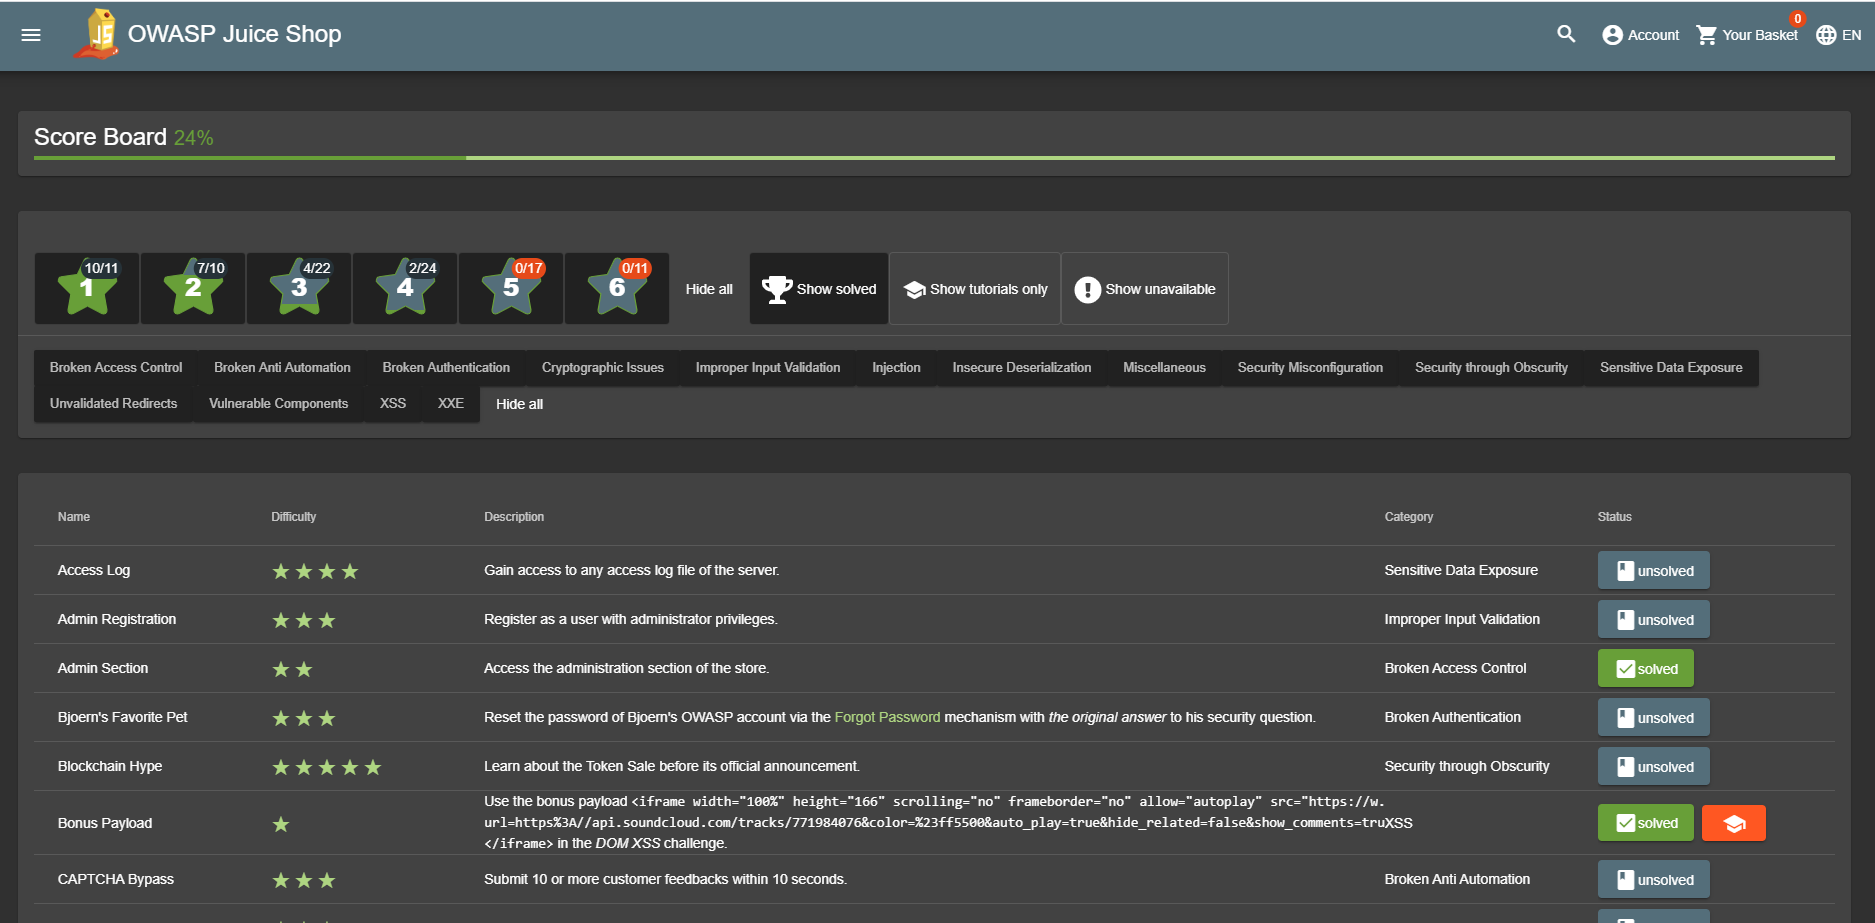
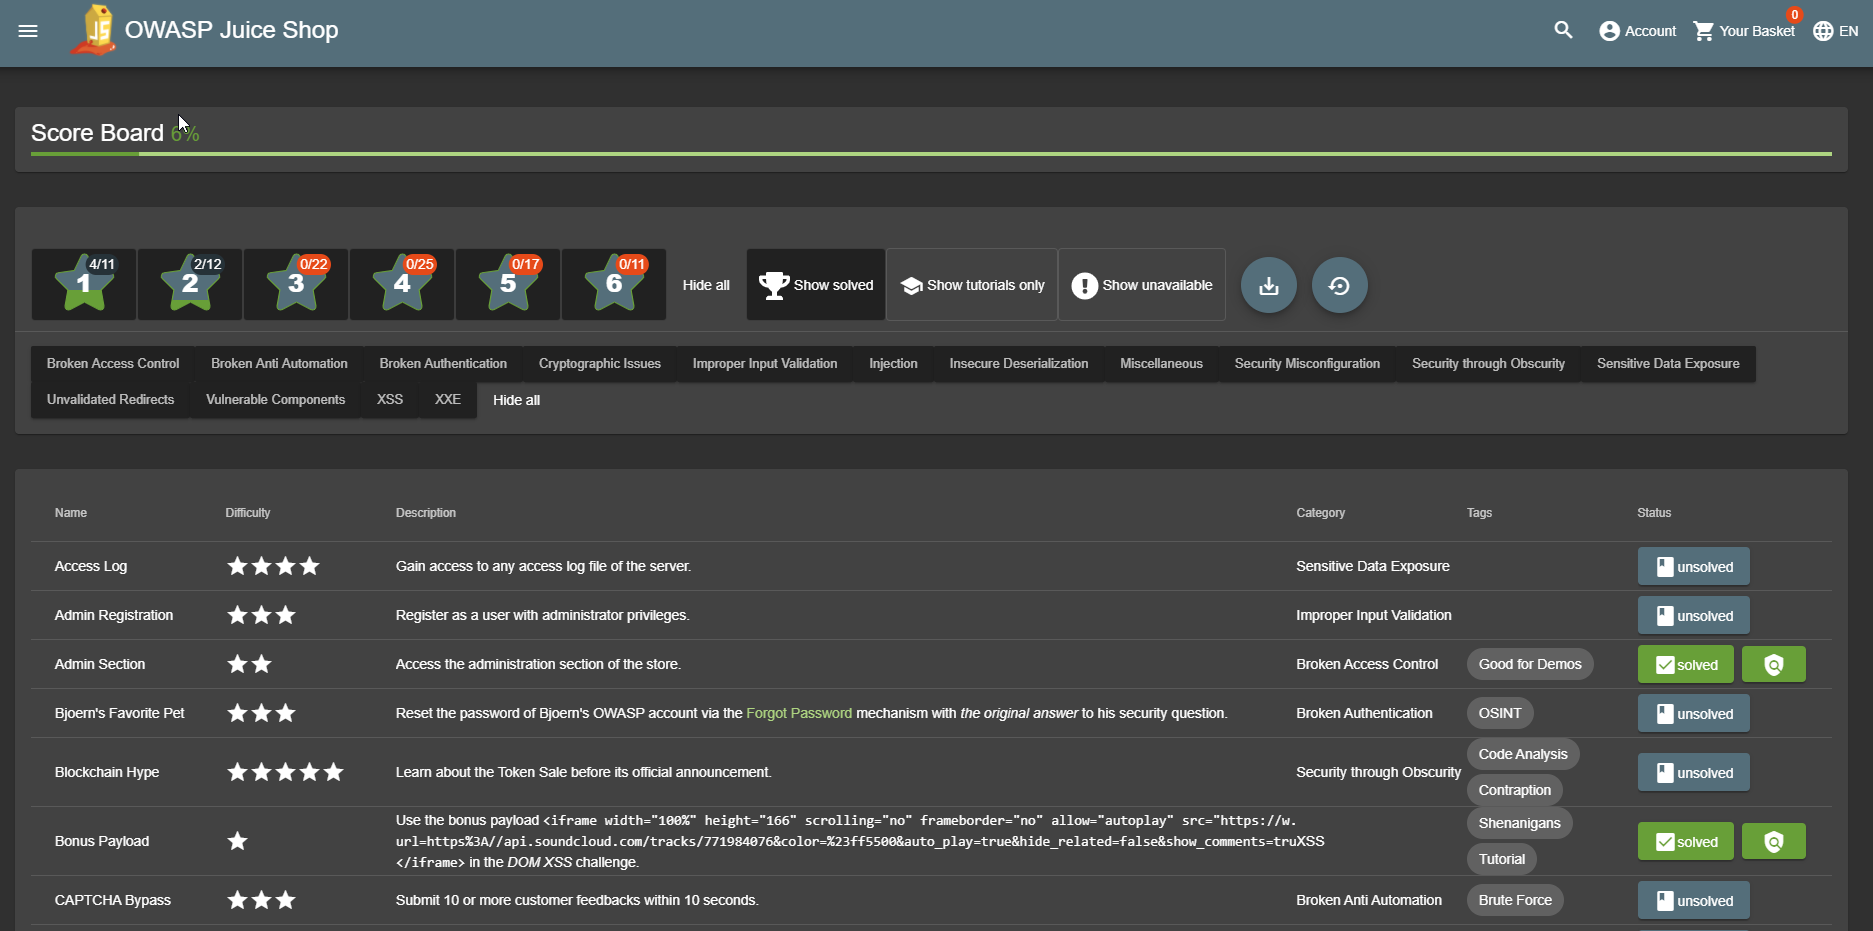
Add section on challenge tags

diff --git a/part1/challenges.md b/part1/challenges.md
@@ -51,6 +51,37 @@ solved challenges to reduce the level of distraction on the Score Board.
 🐌 Selecting _Show all_ for all difficulties and all challenges might
 impact the load time of the Score Board significantly!
 
+### Challenge Tags
+
+Starting with `v12.0.0` tags were introduced to help classify challenges
+which either favor a certain hacking approach or share some trait
+orthogonal to the categories.
+
+* **Shenanigans** marks challenges which are not considered serious
+  and/or realistic but exist more for entertainment
+* **Contraption** indicates that a challenge is not exactly part of a
+  realistic scenario but might be a bit forced or crafted
+* **OSINT** marks challenges which require some Internet research or
+  **social stalking** actvitiy outside the application
+* **Good Practice** highlights challenges which are less about
+  vulnerabilities but promoting good (security) practices
+* **Danger Zone** marks
+  [potentially dangerous challenges](#potentially-dangerous-challenges)
+  which are disabled on Docker/Heroku by default due to RCE or other
+  risks
+* **Good for Demos** highlights
+  [challenges which are suitable for live demos](../appendix/trainers.md#challenges-for-demos)
+  or awareness trainings
+* **Prerequisite** marks challenges which need to be solved before one
+  or more other challenges can be (realistically) solved
+* **Brute Force** marks challenges where automation of some security
+  tool or custom script is an option or even prerequisite
+* **Tutorial** marks challenges for which a
+  [Hacking Instructor script](#hacking-instructor) exists to assist
+  newcomers
+* **Code Analysis** marks challenges where it can be helpful to rummage
+  through some source code of the application or a third party
+
 ## Success notifications
 
 The OWASP Juice Shop employs a simple yet powerful gamification
@@ -188,11 +219,12 @@ perform harmful attacks on unsuspecting visitors.
 
 For safety reasons all potentially dangerous challenges are disabled
 (along with their underlying vulnerabilities) in containerized
-environments. By default this applies to Docker and Heroku. These challenges
-are marked as 'unavailable' in the scoreboard as can be seen in the screenshot above.
+environments. By default this applies to Docker and Heroku. These
+challenges are marked as 'unavailable' in the scoreboard as can be seen
+in the screenshot above.
 
-To re-enable all challenges you can set the environment variable `NODE_ENV=unsafe` or
-you can set `safetyOverride: true` in your own
+To re-enable all challenges you can set the environment variable
+`NODE_ENV=unsafe` or you can set `safetyOverride: true` in your own
 [YAML configuration file](customization.md#yaml-configuration-file).
 Please use the unsafe mode at your own risk, especially on publicly
 hosted instances.
